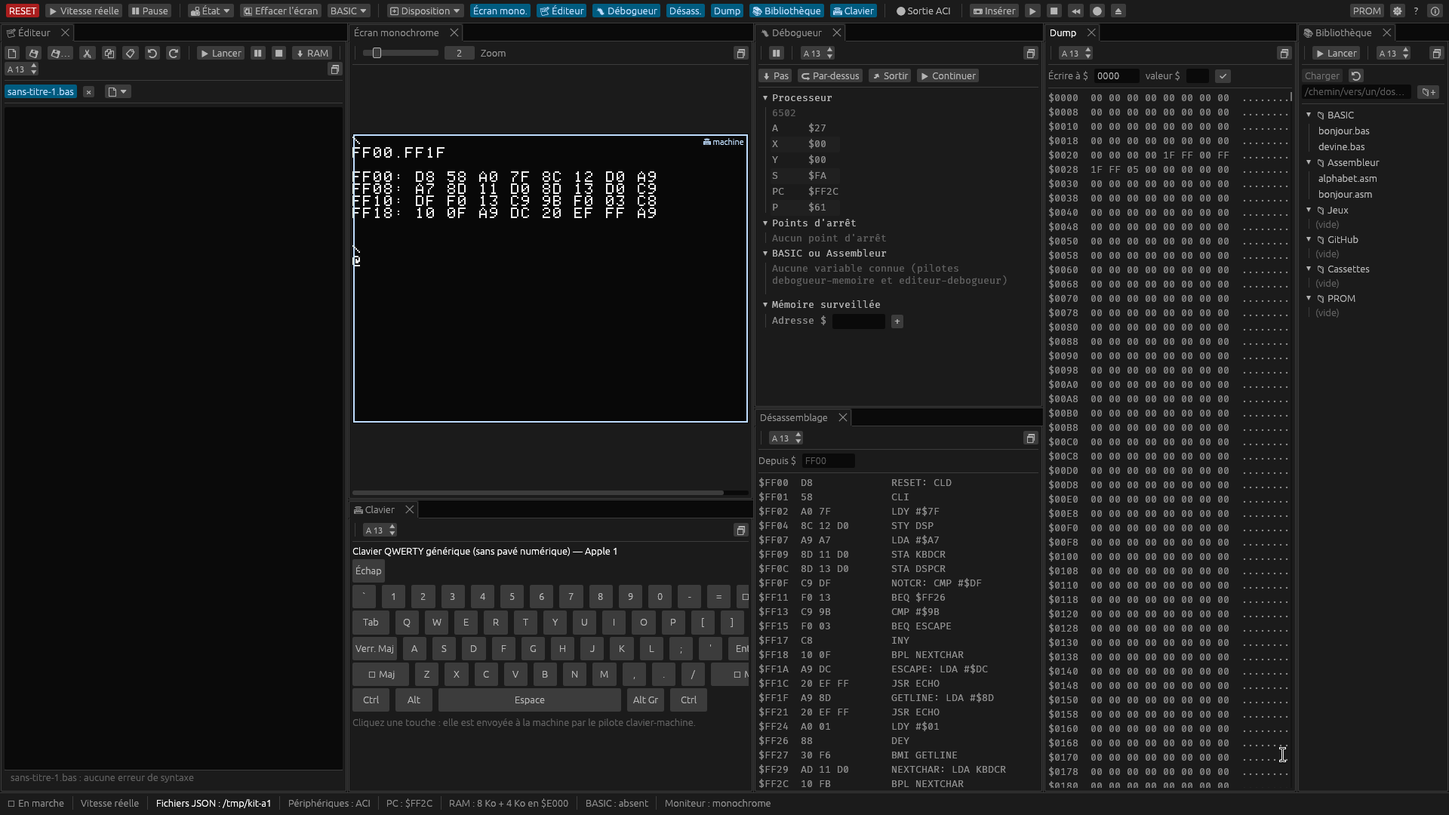
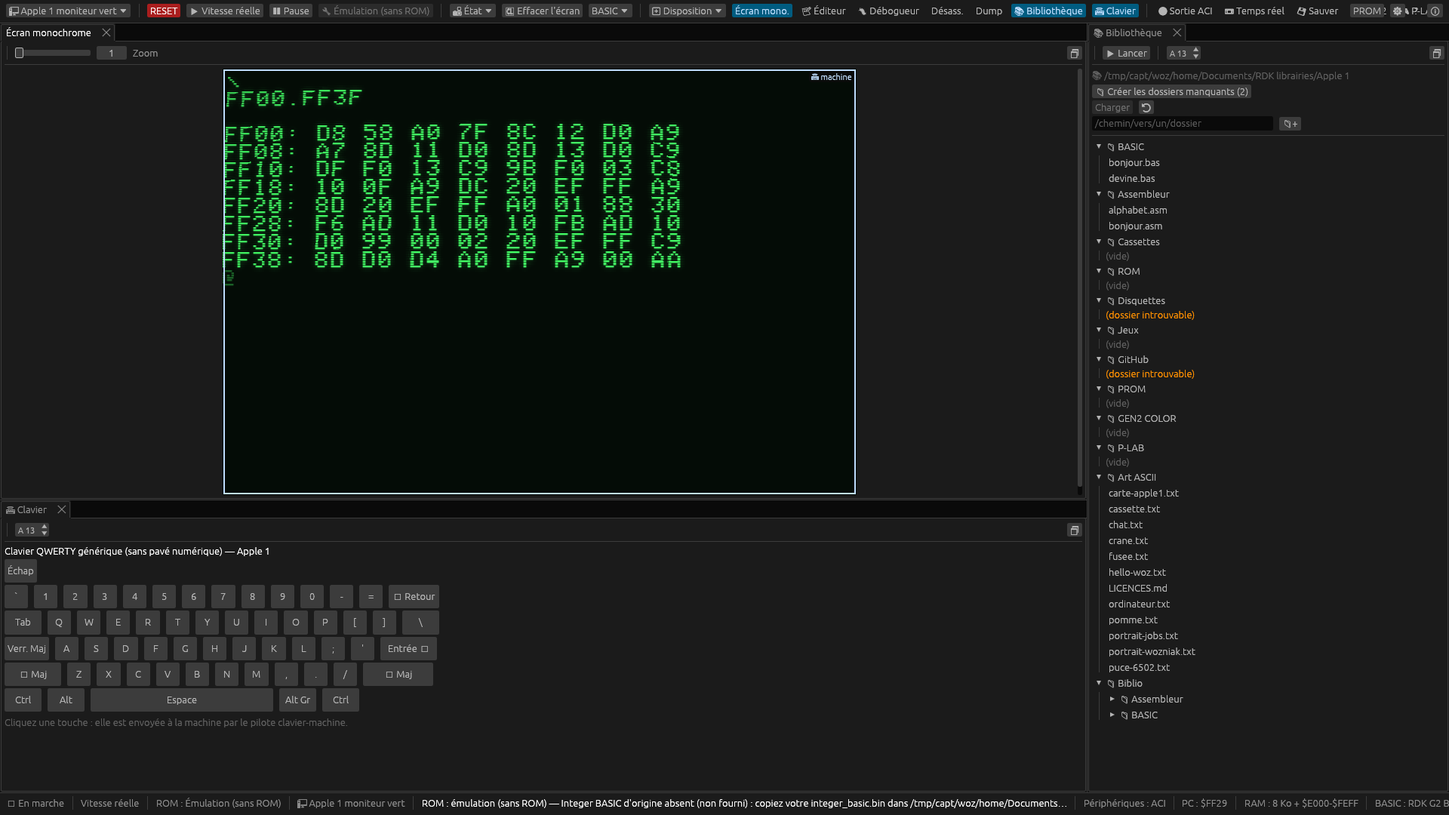
[Rusty Sr] 2.0 : interface commune 0.1.6 (fusion de la PR 9, v0.1.6), captures 1920x1080 (Woz Monitor + clavier, GEN2, P-LAB), écran vintage éteint = image native, documentation 2.0

diff --git a/crates/apple1-rdk/src/lib.rs b/crates/apple1-rdk/src/lib.rs
@@ -216,7 +216,7 @@ pub struct MachineApple1 {
     dbg: Debugger,
     marche: Marche,
     vitesse: Vitesse,
-    /// Dossier du kit (bibliothèque `Biblio/`, BASIC de l'utilisateur).
+    /// Dossier du kit (réglages, exemples du paquet `Biblio/`).
     dossier: PathBuf,
     symboles: Symbols,
     depart: u16,
@@ -1068,7 +1068,7 @@ impl MachineApple1 {
     }
 
     /// Démarre ou arrête l'enregistrement de la sortie ACI ; à l'arrêt, le
-    /// signal est écrit dans `Biblio/Cassettes/` (fichier WAV).
+    /// signal est écrit dans `Cassettes/` de la bibliothèque (fichier WAV).
     fn basculer_enregistrement(&mut self) {
         if self.m.board.recording.is_none() {
             self.m.board.recording = Some(Vec::new());
@@ -1919,7 +1919,7 @@ impl Machine for MachineApple1 {
         v.push(bouton(
             BOUTON_CHARGEMENT_CASSETTE,
             "📼",
-            "Chargement cassette",
+            "Temps réel",
             "Allumé : Charger et ▶ de la bibliothèque passent par la cassette, comme sur la vraie machine (RESET, C100R, lecture de l'ACI en temps réel). Éteint : chargement ⚡ rapide, directement en mémoire.",
             o.cassette,
         ));
@@ -1944,12 +1944,12 @@ impl Machine for MachineApple1 {
                 "P-LAB : cavalier NMI (interruption du VDP à chaque image).",
                 o.plab_nmi,
             ));
-            v.push(bouton(BOUTON_CODETANK, "💾", "CodeTank", "P-LAB : EEPROM CodeTank en $4000-$7FFF, lue dans Biblio/P-LAB/ (votre image .bin ou .rom, 16 Ko au plus) ; second clic : la retirer.", self.m.board.config.codetank.is_some()));
+            v.push(bouton(BOUTON_CODETANK, "💾", "CodeTank", "P-LAB : EEPROM CodeTank en $4000-$7FFF, lue dans le dossier P-LAB de la bibliothèque (votre image .bin ou .rom, 16 Ko au plus) ; second clic : la retirer.", self.m.board.config.codetank.is_some()));
         }
         if o.gen2 && o.plab {
             v.push(bouton(BOUTON_SOURCE, "🖵", "Écran P-LAB", "Les deux cartes sont branchées : le moniteur couleur montre la P-LAB (allumé) ou la GEN2 (éteint).", o.source == SourceCouleur::Plab));
         }
-        v.push(bouton(BOUTON_ECRAN_VINTAGE, "📺", "Écran vintage", "Imitation d'un moniteur à tube des années 1970 (v1.0 « screening ») : lignes de balayage, rémanence, halo, tube bombé.", o.ecran.actif));
+        v.push(bouton(BOUTON_ECRAN_VINTAGE, "📺", "Vintage", "Écran vintage : imitation d'un moniteur à tube des années 1970 (v1.0 « screening ») : lignes de balayage, rémanence, halo, tube bombé.", o.ecran.actif));
         v.push(bouton(
             BOUTON_REGLAGES_ECRAN,
             "🎚",
@@ -1957,7 +1957,7 @@ impl Machine for MachineApple1 {
             "Phosphore du moniteur (vert, blanc, ambre) et réglages de l'écran vintage.",
             self.fenetres.ecran,
         ));
-        v.push(bouton(BOUTON_ASCII, "🎨", "Photo → ASCII", "Une photo (jpg, png) devient un art ASCII de 40 × 24 caractères, puis un programme BASIC ou 6502, une cassette ou un .txt du dossier Art ASCII.", self.fenetres.ascii.ouvert));
+        v.push(bouton(BOUTON_ASCII, "🎨", "ASCII", "Photo → ASCII : une photo (jpg, png) devient un art ASCII de 40 × 24 caractères, puis un programme BASIC ou 6502, une cassette ou un .txt du dossier Art ASCII.", self.fenetres.ascii.ouvert));
         v.push(bouton(BOUTON_EXEMPLES, "📥", "Exemples", "Copie les exemples du kit (BASIC, assembleur, GEN2, P-LAB, art ASCII, cassette) dans votre bibliothèque, sans rien remplacer.", false));
         v
     }

diff --git a/crates/apple1-rdk/src/crt.rs b/crates/apple1-rdk/src/crt.rs
@@ -11,8 +11,9 @@
 //! est appliqué par le moniteur monochrome de l'interface commune 0.1.6
 //! (`VideoCouleur::phosphore_monochrome`).
 //!
-//! L'image des moniteurs a toujours la même taille, effet allumé ou non :
-//! le zoom ×1 de l'interface commune correspond au zoom 3 de la v1.0.
+//! Avec l'écran vintage, l'image des moniteurs est à 3 fois la résolution :
+//! le zoom ×1 de l'interface commune correspond au zoom 3 de la v1.0. Sans
+//! lui, l'image native (280 × 192) est agrandie par le zoom commun.
 
 use rdk_pilotes::ImageVideo;
 use std::time::Instant;
@@ -167,25 +168,6 @@ fn encoder(v: f32) -> u8 {
     tables().srgb[(v.clamp(0.0, 1.0) * (PAS_SRGB - 1) as f32 + 0.5) as usize]
 }
 
-/// Agrandit une image de [`FACTEUR`] sans effet (écran vintage éteint).
-pub fn agrandir(src: &ImageVideo) -> ImageVideo {
-    let (w, h) = (src.largeur * FACTEUR, src.hauteur * FACTEUR);
-    let mut px = Vec::with_capacity(w * h);
-    for y in 0..h {
-        let ligne = &src.pixels[(y / FACTEUR) * src.largeur..(y / FACTEUR + 1) * src.largeur];
-        for p in ligne {
-            for _ in 0..FACTEUR {
-                px.push(*p);
-            }
-        }
-    }
-    ImageVideo {
-        largeur: w,
-        hauteur: h,
-        pixels: px,
-    }
-}
-
 /// Le tube d'un moniteur : garde la rémanence d'une image à l'autre.
 #[derive(Default)]
 pub struct Tube {
@@ -219,9 +201,11 @@ impl Tube {
         self.dernier = Some(maintenant);
         let depart = *self.depart.get_or_insert(maintenant);
         if !r.actif {
+            // écran vintage éteint : l'image native (280 × 192), agrandie
+            // par le zoom du moniteur de la partie commune
             self.acc.clear();
             self.cache = None;
-            return agrandir(&src);
+            return src;
         }
         let meme = self.source == src.pixels
             && self.reglages == Some(*r)
@@ -542,7 +526,7 @@ mod tests {
     }
 
     #[test]
-    fn taille_constante_effet_ou_non() {
+    fn taille_3x_avec_effet_native_sans() {
         let mut t = Tube::default();
         let r = ReglagesEcran::default();
         let a = t.image(damier(280, 192), &r, Phosphore::Vert.tau(), false);
@@ -553,7 +537,7 @@ mod tests {
             0.06,
             false,
         );
-        assert_eq!((b.largeur, b.hauteur), (840, 576));
+        assert_eq!((b.largeur, b.hauteur), (280, 192));
         assert_eq!(b.pixels[0], [255, 255, 255, 255]);
     }
 

diff --git a/crates/apple1-rdk/tests/bout_en_bout.rs b/crates/apple1-rdk/tests/bout_en_bout.rs
@@ -315,13 +315,15 @@ fn carte_gen2_sur_le_moniteur_couleur() {
     m.editeur_lancer(&doc(Langage::Assembleur, prog)).unwrap();
     assert!(m.jusqua_attente(10_000_000));
     m.machine_avancer(Duration::from_millis(40));
-    // sans l'écran vintage : pixels purs, agrandis 3 fois
+    // avec l'écran vintage (défaut de la v1.0) : image calculée à 3 fois
+    assert_eq!(m.image(Moniteur::Couleur).unwrap().largeur, 840);
+    // sans : l'image native, pixels purs
     m.options_mut().ecran.actif = false;
     let img = m.image(Moniteur::Couleur).expect("image GEN2");
-    assert_eq!((img.largeur, img.hauteur), (840, 576));
+    assert_eq!((img.largeur, img.hauteur), (280, 192));
     let magenta = m.palette()[1].rvb;
     assert_eq!(
-        &img.pixels[(140 * 3 + 1) * 840 + 100 * 3 + 1][..3],
+        &img.pixels[140 * 280 + 100][..3],
         &magenta[..],
         "pixel LORES magenta"
     );

diff --git a/crates/apple1-rdk/src/fenetres.rs b/crates/apple1-rdk/src/fenetres.rs
@@ -74,7 +74,7 @@ fn fenetre_ecran(ctx: &egui::Context, m: &mut MachineApple1) -> bool {
             o.phosphore = Phosphore::Vert;
             change = true;
         }
-        ui.weak("L'image des moniteurs est calculée à 3 fois la résolution de l'Apple 1 : le zoom ×1 correspond au zoom 3 de la v1.0.");
+        ui.weak("Avec l'écran vintage, l'image des moniteurs est calculée à 3 fois la résolution de l'Apple 1 (zoom ×1 = zoom 3 de la v1.0) ; sans lui, image native de 280 × 192 points.");
     });
     if change {
         m.enregistrer_reglages();

diff --git a/manifest-apple1.md b/manifest-apple1.md
@@ -1,6 +1,6 @@
 # Manifeste — RDK Apple 1 (spécificités)
 
-> Rempli à partir du modèle de RDK-Interface-Commune 0.1.4 (`modeles/manifest-modele.md`). Ne décrit que ce qui diffère des défauts de l'interface commune. Code : `crates/apple1-rdk`.
+> Rempli à partir du modèle de RDK-Interface-Commune 0.1.4 (`modeles/manifest-modele.md`), mis à jour pour la 0.1.6 (épinglée : `837e367`, étiquette `v0.1.6`). Ne décrit que ce qui diffère des défauts de l'interface commune. Code : `crates/apple1-rdk`.
 >
 > Rédigé le : 17/11/2026 · Auteur : Rusty Sr IA · Statut : brouillon, à valider par Wirehead
 > Mentions : **fixé** (décidé par Wirehead), **proposé, à valider**.
@@ -19,8 +19,9 @@
 | Mémoire | RAM 8 Ko en `$0000-$1FFF` + 4 Ko en `$E000-$EFFF` ; ACI `$C000-$C1FF` ; PIA `$D010-$D013` ; Woz Monitor `$FF00-$FFFF` |
 | Vidéo | terminal 40 × 24 caractères, majuscules, ROM 2513, curseur `@` clignotant, ~60 car./s |
 | Clavier | ASCII 7 bits ; clavier dessiné **QWERTY générique sans pavé numérique** (**fixé**) |
-| Langages | BASIC entier de l'Apple 1 (copie de l'utilisateur), assembleur 6502 (syntaxe ca65 de la v1.0) |
-| Périphériques | cassette ACI ; programmateur de PROM |
+| Langages | Integer BASIC : RDK G2 Basic intégré (Émulation, défaut de la v1.0) ou BASIC d'origine de l'utilisateur (ROM réelle) ; assembleur 6502 (syntaxe ca65 de la v1.0) |
+| Périphériques | cassette ACI ; programmateur d'EPROM (minipro) ; cartes GEN2 (couleur) et P-LAB (TMS9918A) de la v1.0 |
+| Configurations | « Apple 1 moniteur vert » (défaut), « Apple 1 moniteur vert + couleur GEN2 », « Apple 1 + P-LAB » |
 
 ## 2. Pilote `clavier-editeur`
 
@@ -44,16 +45,18 @@ Défaut commun (tous les caractères passent). Le BASIC et l'assembleur sont mis
 - Rangées : Échap · `` ` `` 1-0 - = ⌫ · Tab Q-P [ ] \ · Verr. Maj A-L ; ' Entrée · Maj Z-M , . / Maj · Ctrl Alt Espace Alt Gr Ctrl.
 - Maj et Ctrl du clavier dessiné sont **rémanents** (s'appliquent à la touche suivante).
 - Dessin fourni par `manifeste_clavier` (pas de dessin personnalisé) ; fenêtre ouverte au démarrage sous l'écran monochrome : **oui**.
-- Double-clic qui charge (`double_clic_charge`) : `.wav`, `.aif(f)`, `.bin`, `.prg`, `.mon`, `.hex`, `.apl`.
+- Double-clic qui charge (`double_clic_charge`) : `.woz`, `.dump`, `.hex`, `.wav`, `.aif(f)`, `.bin`, `.prg`, `.mon`, `.apl`, `.txt` (vidage Woz ou art ASCII), photos.
+- Coller (Ctrl+V) : le texte est tapé dans l'Apple 1, comme en v1.0.
 
 ## 4. Moniteurs et pilotes vidéo
 
 | Moniteur | Pilote | Détails |
 |---|---|---|
-| Monochrome | `video-numerique` | 280 × 192 points (40 × 24 cases de 7 × 8), ROM 2513 de la v1.0 |
-| Couleur | — | **absent** (`manifeste_moniteurs` = monochrome seul ; **fixé** : l'Apple 1 est monochrome) |
+| Monochrome | `video-numerique` | terminal 280 × 192 points (40 × 24 cases de 7 × 8), ROM 2513 de la v1.0 ; image calculée à 3 fois (840 × 576) |
+| Couleur | `video-couleur` | carte GEN2 (280 × 192, LORES/HIRES/TEXTE/MIXED) ou P-LAB (256 × 192), agrandie 3 fois ; pas d'image sans carte |
 
-Effets CRT : non en 2.0. Option `video-couleur` : non (carte GEN2 de la v1.0 non reprise en 2.0).
+- Phosphore (0.1.6, `phosphore_monochrome`) : vert (défaut), blanc ou ambre, couleurs de la v1.0 ; la partie commune teinte le moniteur monochrome.
+- Écran vintage (effets CRT de la v1.0, **oui**) : lignes de balayage, rémanence (selon le phosphore), halo, points adoucis, tube bombé et coins assombris, scintillement, masque RVB (moniteur couleur). Bouton 📺 et fenêtre 🎚 Écran ; calculé par la machine.
 
 ## 5. Mémoire
 
@@ -70,15 +73,27 @@ Désassemblage : départ `$FF00`, puis l'adresse du dernier programme assemblé 
 
 | Identifiant | Icône | Libellé | Effet |
 |---|---|---|---|
-| `aci-enregistrer` | ⏺ | Sortie ACI | 1er clic : enregistre la sortie cassette ; 2e clic : écrit `Biblio/Cassettes/sortie-aci-<horodatage>.wav` |
+| `aci-enregistrer` | ⏺ | Sortie ACI | 1er clic : enregistre la sortie cassette ; 2e clic : écrit `Cassettes/sortie-aci-<horodatage>.wav` dans la bibliothèque |
+| `chargement-cassette` | 📼 | Chargement cassette | allumé : Charger et ▶ passent par l'ACI en temps réel (RESET, `C100R`, lecture) ; éteint : ⚡ rapide |
+| `sauver` | 💾 | Sauver | fenêtre : plages → `.woz`, `.wav`, `.aiff`, Intel `.hex`, `.dump`, `.bin`, `.prg` |
+| `gen2` (+ `gen2-50hz`, `accolades`) | 🌈 | GEN2 | carte couleur d'Uncle Bernie ; suit la configuration |
+| `plab` (+ `plab-nmi`, `codetank`, `source-couleur`) | 🎮 | P-LAB | TMS9918A, NMI, CodeTank (`P-LAB/` de la bibliothèque) ; suit la configuration |
+| `ecran-vintage` | 📺 | Écran vintage | effets CRT |
+| `reglages-ecran` | 🎚 | Écran | fenêtre : phosphore et réglages CRT |
+| `photo-ascii` | 🎨 | Photo → ASCII | fenêtre de la v1.0 : photo ou `.txt` → art ASCII → BASIC / 6502, cassette, `.txt` |
+| `exemples` | 📥 | Exemples | copie les exemples du paquet et l'art ASCII de la v1.0 dans la bibliothèque (sans rien remplacer) |
 
-Programmateur de PROM : **oui**. 2.0 : écrit l'image `$E000-$EFFF` dans `Biblio/PROM/prom-E000-EFFF.bin` et donne la commande `minipro -p 2732@DIP24 -w …` (la v1.0 pilotait minipro elle-même : à reprendre plus tard).
+Programmateur de PROM : **oui**. Fenêtre de la v1.0 (minipro : lire, écrire, vérifier ; puce ; mémoire ou fichier), fichiers en **Intel HEX** dans `PROM/` ; sans fenêtre : image `$E000-$EFFF` en `PROM/prom-E000-EFFF.hex`. Les fenêtres de la machine sont dessinées par la machine (contexte egui reçu par `OptionsLancement::preparer`).
 
 ## 7. Bibliothèque
 
-- Dossiers en plus : `Cassettes`, `PROM`.
-- Charger : sources `.bas`/`.asm` → ⬇ RAM ; `.wav`/`.aif` (ACI, décodé comme en v1.0), `.mon`/`.hex`/`.apl` (vidage Woz), `.bin`, `.prg` → mémoire.
-- Play : RESET, chargement, puis `xxxxR` (adresse de lancement) ou, pour une cassette BASIC (page zéro `$004A`), `E2B3R` puis `RUN`.
+- Dossier (0.1.5) : `Documents/RDK librairies/Apple 1` ; l'ancien `Biblio/` du kit reste lu.
+- Dossiers en plus : `Cassettes`, `PROM`, `GEN2 COLOR`, `P-LAB`, `Art ASCII`.
+- Formats (0.1.5) : `.woz` (dump du Woz Monitor, lecture et écriture), `.txt`/`.mon`/`.apl` (anciens dumps, lecture seule), `.dump` et Intel `.hex` communs (un ancien `.hex` au format Woz reste lu), `.wav`/`.aif(f)` (ACI), `.bin`, `.prg`, `.s` (assembleur), photos (art ASCII).
+- ROM (0.1.5) : Woz Monitor, ACI et 2513 intégrés ; seul `integer_basic.bin` (4096 octets, facultatif, variable `RDK_APPLE1_BASIC`) est cherché dans `ROM/`, identifié par sa signature. ROM réelle = ce BASIC ; Émulation = RDK G2 Basic.
+- Charger : sources `.bas`/`.asm`/`.s` → ⬇ RAM ; programmes → mémoire (RAM étendue au besoin, sauf GEN2) ou cassette 📼.
+- Play : RESET, chargement, puis `xxxxR` (adresse de lancement) ou, pour un programme BASIC (page zéro `$004A`), `E2B3R` puis `RUN`.
+- Programmes reconnus de la v1.0 (empreinte SHA-256) : adresse de lancement et notes.
 
 ### 7 bis. Éditeur → machine
 
@@ -132,7 +147,7 @@ PC, RAM, BASIC (en mémoire / absent), Moniteur, Cassette (nom, position), Messa
 | `clavier-machine` | oui | 3 | |
 | `video-analogique` | | | oui |
 | `video-numerique` | oui | 4 | |
-| `video-couleur` | | | oui (pas de couleur) |
+| `video-couleur` | oui | 4 (GEN2, P-LAB, phosphore 0.1.6) | |
 | `souris-machine`, `machine-imprimante`, `joystick-machine`, `port-parallele`, `port-serie` | | | oui |
 | `dump-memoire`, `debogueur-memoire` | oui | 5, 9 | |
 | `debogueur-processeur` | oui | 9 | |
@@ -144,13 +159,13 @@ PC, RAM, BASIC (en mémoire / absent), Moniteur, Cassette (nom, position), Messa
 | `biblio-cassette` | oui | non (défaut) | |
 | `cassette-machine` | oui | 10 | |
 | `syntaxe-basic`, `syntaxe-asm` | oui | 8 | |
+| `rom-machine` (0.1.5) | oui | 7 | |
 | `machine-etat` | oui | 12 | |
 
 ## 18. Points à préciser
 
-1. Carte couleur GEN2 et carte P-LAB de la v1.0 : à reprendre en 2.x (option `video-couleur`) ?
-2. Programmateur de PROM : fenêtre propre (choix de la puce, lecture, vérification) quand l'interface commune le permettra.
-3. Bibliothèque d'origine de la v1.0 (programmes reconnus, art ASCII) : à reprendre ?
+1. Paramètres par programme (⚙, `programs.json` de la v1.0) : l'interface commune ne donne pas le fichier choisi dans la bibliothèque.
+2. Son (ALSA) et oscilloscope de la cassette, projets GitHub, 7 langues, sauvegarde de l'état de la machine : non repris en 2.0.
 
 ## 19. Restrictions
 

diff --git a/docs/version-2.0.md b/docs/version-2.0.md
@@ -1,23 +1,44 @@
 # Retro Dev Kit Apple 1 — version 2.0 (Linux)
 
-La 2.0 reconstruit le kit Apple 1 sur **RDK-Interface-Commune 0.1.4**, comme le ZX Spectrum 0.2.x. Demande de Wirehead du 17/11/2026.
+La 2.0 reconstruit le kit Apple 1 sur **RDK-Interface-Commune 0.1.6**, comme le ZX Spectrum 0.2.x, et reprend les fonctions de la v1.0. Demandes de Wirehead du 17/11/2026.
 
-![Retro Dev Kit Apple 1 2.0 : Woz Monitor, clavier QWERTY sans pavé numérique](captures/rdk-apple1-2.0-wozmon-clavier.png)
+![Retro Dev Kit Apple 1 2.0 : Woz Monitor, moniteur vert, clavier QWERTY sans pavé numérique](captures/rdk-apple1-2.0-wozmon-clavier.png)
 
 ## Ce qui change
 
-- Programme `retro-dev-kit-apple1` (paquet `crates/apple1-rdk`) : l'interface commune (fenêtres, barre d'icônes, éditeur, moniteur, Dump, débogueur, désassemblage, bibliothèque, assistant, préférences, barre d'état) avec l'Apple 1.
+- Programme `retro-dev-kit-apple1` (paquet `crates/apple1-rdk`) : l'interface commune (fenêtres, barre d'icônes, éditeur, moniteurs, Dump, débogueur, désassemblage, bibliothèque, assistant, préférences, barre d'état) avec l'Apple 1.
 - La machine est **celle de la v1.0** (`crates/apple1-core`, inchangé) ; seule la liaison par les pilotes est nouvelle. Le manifeste est [`manifest-apple1.md`](../manifest-apple1.md).
 - `crates/apple1-rdk` est un **espace de travail à part** (exclu de celui de la v1.0) : la v1.0 et sa construction Windows ne dépendent pas du dépôt privé de l'interface commune.
-- Interface commune épinglée sur le commit `add001d33416986ec2bcc2c68242ead806abb9d1` (fusion de la 0.1.4, étiquette `v0.1.4`).
-- Moniteur **monochrome** seul ; clavier dessiné **QWERTY générique sans pavé numérique**.
+- Interface commune épinglée sur le commit `837e367b88fe0fef05c00e489dfd3a4417536fd8` (fusion de la 0.1.6, PR n° 9, étiquette `v0.1.6`).
 - **Linux seulement.** Les fichiers Windows de la v1.0 sont gardés tels quels, sans travail 2.0.
+
+## Interface commune 0.1.5 et 0.1.6
+
+- **Bibliothèque** : `~/Documents/RDK librairies/Apple 1` (créée seulement avec votre accord). Le bouton 📥 **Exemples** y copie les exemples du paquet et l'art ASCII de la v1.0, sans rien remplacer ; l'ancien dossier `Biblio/` du kit reste lu.
+- **ROM** : Woz Monitor, ACI et 2513 sont intégrés. Seul le BASIC d'origine est cherché : votre copie `integer_basic.bin` (4096 octets, non fournie) dans le dossier `ROM` de la bibliothèque, ou désignée par `RDK_APPLE1_BASIC`. Elle est reconnue par sa signature ; **ROM réelle** = ce BASIC, **Émulation** = RDK G2 Basic, intégré (le défaut de la v1.0).
+- **Formats** : `.woz` (dump du Woz Monitor, lecture et écriture), ancien `.txt` (et `.mon`, `.apl`) en lecture seule, `.dump` commun, **Intel `.hex`** (un ancien `.hex` au format Woz reste lu), cassettes `.wav`/`.aif(f)`, `.bin`, `.prg`, sources `.bas`, `.asm`, `.s`, photos (art ASCII).
+- **Configurations** (liste de la barre d'icônes) : « Apple 1 moniteur vert » (défaut), « Apple 1 moniteur vert + couleur GEN2 », « Apple 1 + P-LAB ».
+- **0.1.6** (PR n° 9, ajout fait pour la 2.0) : la machine déclare le **phosphore** du moniteur monochrome ; la partie commune teinte l'image en vert, blanc ou ambre au lieu de la griser.
+
+## Repris de la v1.0
+
+- **Carte couleur GEN2** (LORES, HIRES, TEXTE, MIXED, 50/60 Hz, accolades) et **carte P-LAB** (TMS9918A, NMI, CodeTank) sur le **moniteur couleur** ; le terminal reste sur le moniteur vert.
+- **Moniteur vert, blanc ou ambre** et **écran vintage** (lignes de balayage, rémanence, halo, points adoucis, tube bombé, scintillement, masque RVB) : boutons 📺 Vintage et 🎚 Écran.
+- **Programmateur d'EPROM** (bouton PROM) : minipro (XGecu TL866II+, T48, T56), lire, écrire, vérifier, puce, plage de mémoire ou fichier ; fichiers en **Intel HEX** dans `PROM/`.
+- **🎨 Photo → ASCII** : photo ou dessin `.txt` → art de 40 × 24 caractères → programme BASIC ou 6502 lancé, enregistré, mis en cassette ou copié ; dossier `Art ASCII` et ses exemples.
+- **Programmes reconnus** (empreinte SHA-256 des cassettes de la v1.0) : adresse de lancement et notes.
+- **💾 Sauver** des plages de la mémoire (`.woz`, `.wav`, `.aiff`, Intel `.hex`, `.dump`, `.bin`, `.prg`), **📼 chargement par la cassette en temps réel** (bouton Temps réel), **⏺ Sortie ACI**, coller (Ctrl+V) dans l'Apple 1, RAM étendue automatiquement pour un programme haut.
+- Clavier dessiné **QWERTY générique sans pavé numérique**, ouvert au démarrage ; moniteur monochrome (vert) par défaut.
+
+![Carte GEN2 : barres LORES sur le moniteur couleur](captures/rdk-apple1-2.0-gen2-couleur.png)
+
+![Carte P-LAB : Graphics I du TMS9918A](captures/rdk-apple1-2.0-plab.png)
 
 ## Ce qui ne change pas
 
 - La **v1.0** reste téléchargeable à la même adresse : <https://github.com/Old-Wirehead/rdk-apple1/releases/tag/v1.0> (étiquette et archive intouchées). Son code (`apple1-gui`, `apple1-emu`, `apple1-mcp`) reste dans le dépôt et se construit toujours.
 - Les manuels et leurs traductions ne sont pas modifiés.
-- ROM : seulement Woz Monitor, ACI et 2513, comme en v1.0. Le BASIC d'origine n'est pas fourni : l'utilisateur pose sa copie `integer_basic.bin` dans le dossier du kit ou dans `~/apple1/` (ou la désigne par `RDK_APPLE1_BASIC`).
+- ROM livrées : seulement Woz Monitor, ACI et 2513, comme en v1.0. Jamais le BASIC d'origine, ni images CodeTank, ni cassettes du commerce, ni documents tiers.
 
 ## Construire et lancer
 
@@ -30,17 +51,12 @@ packaging/linux-2.0/construire-paquet.sh   # dist/retro-dev-kit-apple1-2.0-linux
 cd dist/retro-dev-kit-apple1-2.0-linux && ./run.sh
 ```
 
-## Pilotes faits
+## Pas encore repris de la v1.0
 
-Voir le tableau de `crates/apple1-rdk/src/lib.rs` et la rubrique 17 du manifeste : `clavier-machine`, `video-numerique` (monochrome), `dump-memoire`, `debogueur-memoire` (variables du BASIC), `debogueur-processeur` (6502), `desassembleur-memoire`, `editeur-machine`, `editeur-memoire`, `biblio-memoire`, `cassette-machine`, `syntaxe-basic`, `syntaxe-asm`, `machine-etat`, programmateur de PROM (image + commande minipro), écrans 1 et 2 de l'assistant.
-
-![Programme assembleur lancé depuis l'éditeur](captures/rdk-apple1-2.0-assembleur.png)
-
-## Laissé pour plus tard
-
-- Carte couleur GEN2, carte P-LAB, art ASCII, programmes reconnus et paramètres de chargement de la v1.0.
-- Programmateur de PROM complet (pilotage de minipro, lecture, vérification) : la 2.0 écrit seulement l'image.
-- Les boutons cassette de l'interface commune (Insérer, Lecture, Enregistrer…) n'appellent pas encore `cassette-machine` (0.1.4) : en attendant, la bibliothèque lit les WAV et le bouton ⏺ Sortie ACI enregistre.
-- Version Windows de la 2.0 ; effets CRT ; aide propre à la machine (`aide/machine/`).
+- Paramètres par programme (⚙, `programs.json`) : l'interface commune ne donne pas encore à la machine le fichier choisi dans la bibliothèque.
+- Son (ALSA), oscilloscope de la cassette, projets GitHub et « tester le dernier build », 7 langues, sauvegarde de l'état de la machine.
+- Les boutons cassette de l'interface commune (Insérer, Lecture…) : la bibliothèque, ⏺ Sortie ACI et 📼 Temps réel les remplacent.
+- Zoom « Ajuster » de la v1.0 : le moniteur commun a un zoom entier (avec l'écran vintage, ×1 = zoom 3 de la v1.0).
+- Version Windows de la 2.0.
 
 Rusty Sr IA

diff --git a/README.md b/README.md
@@ -12,14 +12,20 @@ les numéros 7.x désignaient les versions de test, quand le dépôt était priv
 
 ## Version 2.0 (en préparation, Linux) — sur l'interface commune
 
-La **2.0** reconstruit le kit sur **RDK-Interface-Commune 0.1.4**, comme le
+La **2.0** reconstruit le kit sur **RDK-Interface-Commune 0.1.6**, comme le
 ZX Spectrum 0.2 : programme `retro-dev-kit-apple1` (paquet
 `crates/apple1-rdk`), même machine que la v1.0 (`apple1-core`), branchée par
 les pilotes communs et décrite par [`manifest-apple1.md`](manifest-apple1.md).
-Moniteur monochrome, clavier QWERTY générique sans pavé numérique, Woz
-Monitor, ACI, BASIC (votre copie de `integer_basic.bin`, non fournie),
-assembleur 6502, débogueur, Dump, désassemblage, bibliothèque. Linux
-seulement. Détails : [docs/version-2.0.md](docs/version-2.0.md).
+Bibliothèque dans `Documents/RDK librairies/Apple 1` ; configurations
+« Apple 1 moniteur vert » (défaut), « … + couleur GEN2 » et « Apple 1 +
+P-LAB » ; formats `.woz`, `.dump`, Intel `.hex` ; ROM réelle (votre copie
+de `integer_basic.bin`, non fournie) ou émulation (RDK G2 Basic). Repris de
+la v1.0 : cartes GEN2 et P-LAB sur le moniteur couleur, moniteur vert, blanc
+ou ambre et écran vintage, programmateur d'EPROM (Intel HEX), Photo → ASCII,
+programmes reconnus, Sauver, chargement cassette en temps réel ; clavier
+QWERTY générique sans pavé numérique, Woz Monitor, ACI, assembleur 6502,
+débogueur, Dump, désassemblage. Linux seulement. Détails :
+[docs/version-2.0.md](docs/version-2.0.md).
 
 La **v1.0** reste disponible, inchangée :
 <https://github.com/Old-Wirehead/rdk-apple1/releases/tag/v1.0>. Le reste de

diff --git a/packaging/linux-2.0/LISEZMOI-INSTALLATION.md b/packaging/linux-2.0/LISEZMOI-INSTALLATION.md
@@ -2,12 +2,22 @@
 
 1. Décompressez l'archive où vous voulez.
 2. Lancez `./run.sh` (ou double-cliquez dessus).
-3. Facultatif : pour le BASIC, copiez **votre** copie du BASIC de l'Apple 1
-   (`integer_basic.bin`, 4 Ko) à côté de `run.sh`, ou dans `~/apple1/`.
-   Elle n'est pas fournie : elle n'est pas libre.
+3. Bibliothèque : `~/Documents/RDK librairies/Apple 1` (le kit demande
+   avant de la créer). Le bouton 📥 **Exemples** y copie les exemples du
+   paquet (BASIC, assembleur, GEN2, P-LAB, art ASCII, cassette) sans rien
+   remplacer ; le dossier `Biblio/` du paquet reste lu comme « ancienne
+   bibliothèque ».
+4. Facultatif : pour le BASIC d'origine, copiez **votre** copie du BASIC de
+   l'Apple 1 (`integer_basic.bin`, 4096 octets) dans le dossier `ROM` de la
+   bibliothèque (ou désignez-la par la variable `RDK_APPLE1_BASIC`), puis
+   choisissez « ROM réelle ». Elle n'est pas fournie : elle n'est pas libre.
+   Sans elle, le mode « Émulation » utilise RDK G2 Basic, intégré.
 
-Le kit range ses préférences (`preferences.json`…) et sa bibliothèque
-(`Biblio/`) dans ce dossier.
+Configurations (liste de la barre d'icônes) : « Apple 1 moniteur vert »
+(défaut), « Apple 1 moniteur vert + couleur GEN2 », « Apple 1 + P-LAB ».
+
+Le kit range ses préférences (`preferences.json`, `apple1-rdk.cfg`) dans ce
+dossier.
 
 ROM fournies (comme en v1.0) : Woz Monitor, ROM de l'ACI, générateur de
 caractères 2513. Licence : GPL-3.0 (fichier `LICENSE`).
